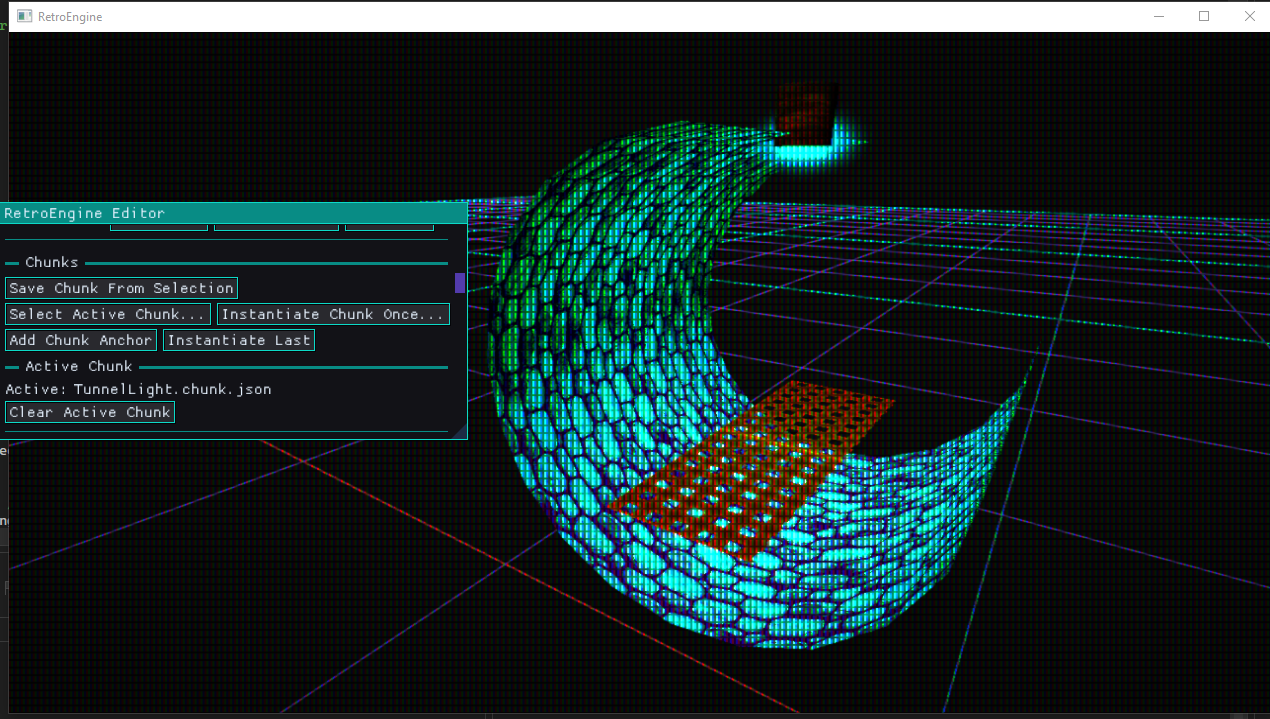
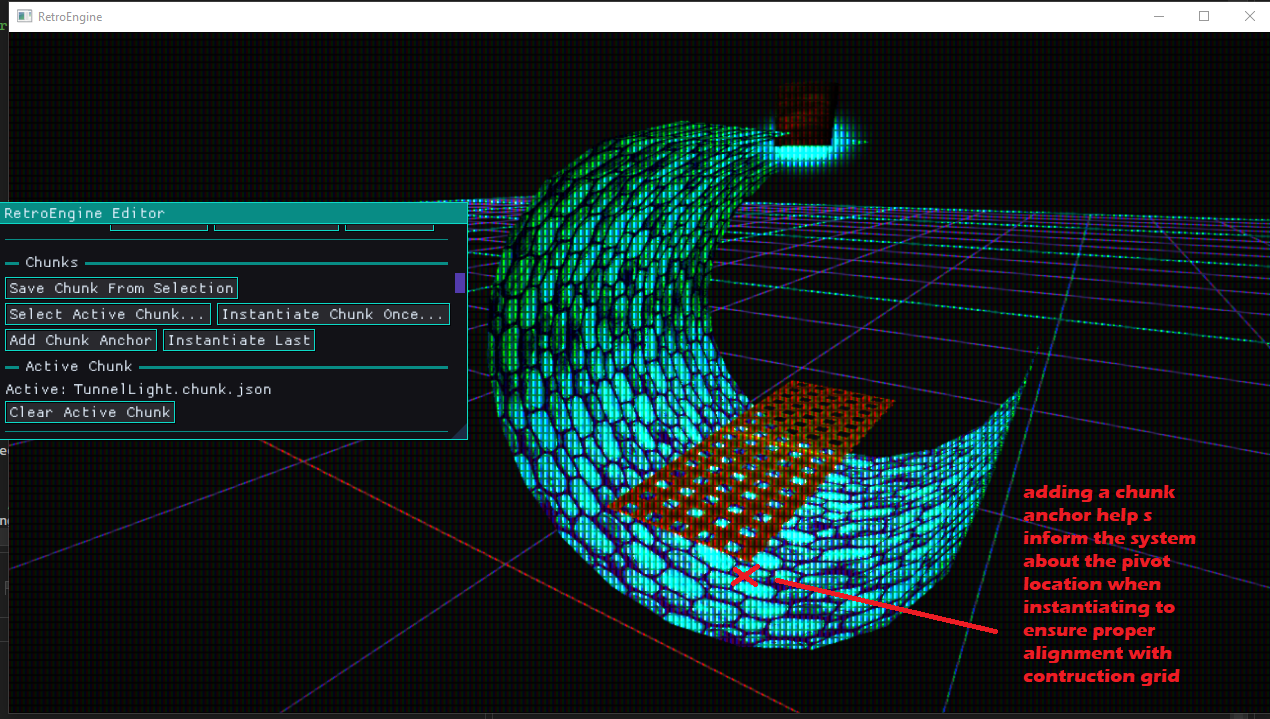
added summary for dev log 16

Changed region(s): [[0.737, 0.6732, 0.952, 0.9485], [0.6449, 0.8261, 0.737, 0.8567], [0.5835, 0.7955, 0.6449, 0.8261]]

diff --git a/devlog/index.html b/devlog/index.html
@@ -26,6 +26,64 @@
 
   <section class="log-list">
 
+
+<!-- Dev Log 16 -->
+<article>
+  <h2>
+    <a href="entry16.html">📐 Dev Log 16 — Building on a Plane</a>
+    <h4>February 8, 2026</h4>
+    <span class="preview-label">Editor & Placement</span>
+  </h2>
+
+  <p>
+    This dev log focuses on a deceptively simple goal:
+    making placement inside RetroEngine feel physical instead of list-driven.
+    What started as “just a construction grid” quickly turned into a stress test
+    for the editor, the renderer, and some long-standing assumptions about how
+    temporary data should interact with the GPU.
+  </p>
+
+  <p>
+    The construction grid itself is intentionally minimal.
+    It is editor-only, owns no entities, and does not exist at runtime.
+    Given a camera and a mouse ray, it answers one question:
+    where would this land?
+    That small shift unlocked a more tactile way to assemble spaces
+    without introducing a second scene graph or heavy gizmo systems.
+  </p>
+
+  <p>
+    From there, chunk placement needed clearer rules.
+    Explicit chunk anchors were introduced to define pivots without adding
+    hierarchy or hidden ownership.
+    Chunks remain plain data — reusable, instanced, and disposable —
+    but now spawn deterministically and predictably on the grid.
+  </p>
+
+  <p>
+    The real challenge came with live previews.
+    Rendering chunks before placement sounds trivial,
+    but doing it safely in Direct3D 12 forced stricter boundaries
+    between editor and runtime rendering.
+    The end result is a preview system that uses the same mesh path as real entities,
+    but with disciplined resource ownership and no mutation of scene state.
+  </p>
+
+  <p>
+    This log also marks roughly 100 days of work on RetroEngine!
+    The features are getting quieter,
+    but the engine itself is getting stronger.
+    Fewer fragile edges.
+    Clearer rules.
+    Faster iteration.
+  </p>
+
+  <img src="../assets/images/Devlog16_ConstructionGrid01.png" alt="Construction grid and chunk placement inside the RetroEngine editor">
+
+  <a href="entry16.html" class="button">Read Full Log</a>
+  <p class="preview-note">This is just a short summary — click above to read the full log.</p>
+</article>
+
 <!-- Dev Log 15 -->
 <article>
   <h2>
